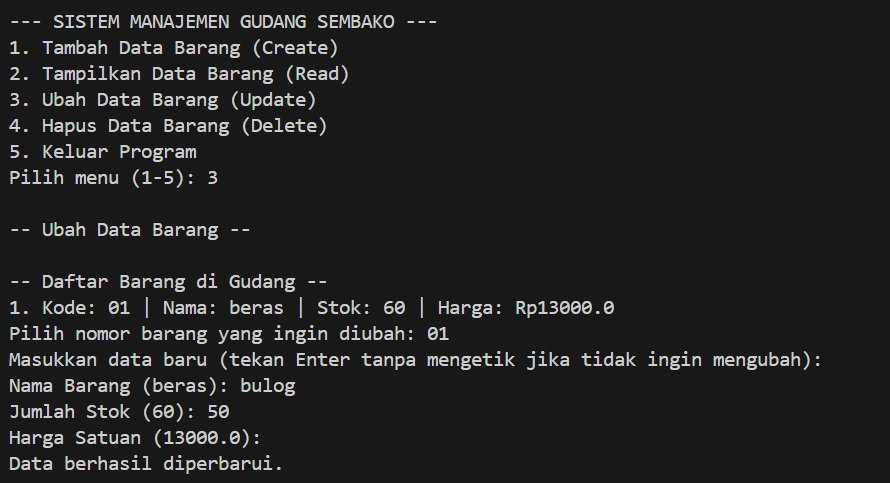
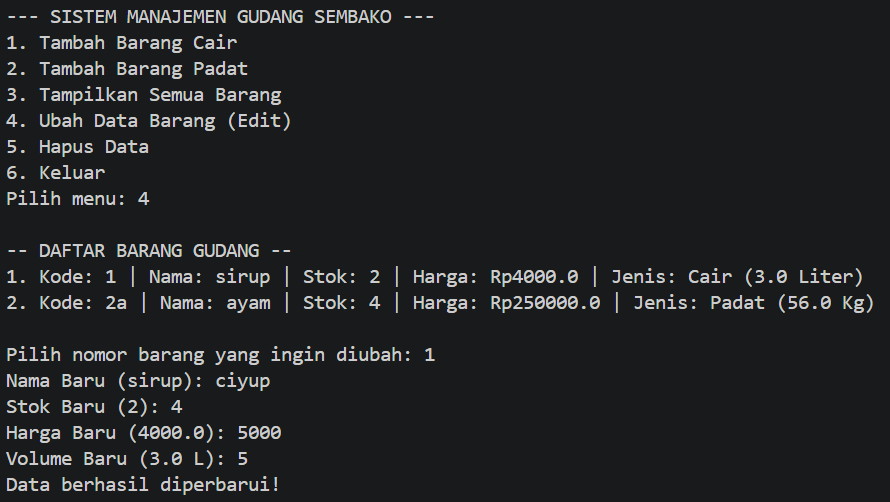
fiks

Changed region(s): [[0.0, 0.6832, 0.9101, 0.9938], [0.0, 0.0, 0.4854, 0.4348], [0.0, 0.4658, 1.0, 0.6522]]

diff --git a/POSTTEST3/src/App.java b/POSTTEST3/src/App.java
@@ -1,7 +1,6 @@
 import java.util.ArrayList;
 import java.util.Scanner;
 
-
 class Sembako {
     private String kodeBarang;
     private String namaBarang;
@@ -20,6 +19,7 @@ class Sembako {
                          " | Stok: " + jumlahStok + " | Harga: Rp" + hargaSatuan);
     }
 
+    // Getter & Setter
     public String getKodeBarang() { return kodeBarang; }
     public String getNamaBarang() { return namaBarang; }
     public int getJumlahStok() { return jumlahStok; }
@@ -38,6 +38,9 @@ class SembakoCair extends Sembako {
         this.volumeLiter = volume;
     }
 
+    public double getVolumeLiter() { return volumeLiter; }
+    public void setVolumeLiter(double volumeLiter) { this.volumeLiter = volumeLiter; }
+
     @Override
     public void tampilkanInfo() {
         super.tampilkanInfo();
@@ -45,7 +48,6 @@ class SembakoCair extends Sembako {
     }
 }
 
-// --- SUBCLASS 2 (Inheritance: Single Inheritance) ---
 class SembakoPadat extends Sembako {
     private double beratKg;
 
@@ -53,6 +55,9 @@ class SembakoPadat extends Sembako {
         super(kode, nama, stok, harga);
         this.beratKg = berat;
     }
+
+    public double getBeratKg() { return beratKg; }
+    public void setBeratKg(double beratKg) { this.beratKg = beratKg; }
 
     @Override
     public void tampilkanInfo() {
@@ -68,12 +73,13 @@ public class App {
     public static void main(String[] args) {
         boolean berjalan = true;
         while (berjalan) {
-            System.out.println("\n--- SISTEM MANAJEMEN GUDANG SEMBAKO (INHERITANCE) ---");
+            System.out.println("\n--- SISTEM MANAJEMEN GUDANG SEMBAKO ---");
             System.out.println("1. Tambah Barang Cair");
             System.out.println("2. Tambah Barang Padat");
             System.out.println("3. Tampilkan Semua Barang");
-            System.out.println("4. Hapus Data");
-            System.out.println("5. Keluar");
+            System.out.println("4. Ubah Data Barang (Edit)");
+            System.out.println("5. Hapus Data");
+            System.out.println("6. Keluar");
             System.out.print("Pilih menu: ");
             
             int pilihan = scanner.nextInt();
@@ -83,8 +89,9 @@ public class App {
                 case 1: tambahBarang(true); break;
                 case 2: tambahBarang(false); break;
                 case 3: tampilkanData(); break;
-                case 4: hapusData(); break;
-                case 5: 
+                case 4: ubahData(); break;
+                case 5: hapusData(); break;
+                case 6: 
                     berjalan = false;
                     System.out.println("Program Selesai.");
                     break;
@@ -111,21 +118,62 @@ public class App {
 
     static void tampilkanData() {
         System.out.println("\n-- DAFTAR BARANG GUDANG --");
-        if (daftarSembako.isEmpty()) System.out.println("Gudang Kosong.");
-        for (int i = 0; i < daftarSembako.size(); i++) {
-            System.out.print((i + 1) + ". ");
-            daftarSembako.get(i).tampilkanInfo(); // Polimorfisme bekerja di sini
+        if (daftarSembako.isEmpty()) {
+            System.out.println("Gudang Kosong.");
+        } else {
+            for (int i = 0; i < daftarSembako.size(); i++) {
+                System.out.print((i + 1) + ". ");
+                daftarSembako.get(i).tampilkanInfo();
+            }
+        }
+    }
+
+    static void ubahData() {
+        tampilkanData();
+        if (daftarSembako.isEmpty()) return;
+
+        System.out.print("\nPilih nomor barang yang ingin diubah: ");
+        int no = scanner.nextInt();
+        scanner.nextLine();
+
+        if (no > 0 && no <= daftarSembako.size()) {
+            Sembako barang = daftarSembako.get(no - 1);
+            
+            System.out.print("Nama Baru (" + barang.getNamaBarang() + "): ");
+            String namaBaru = scanner.nextLine();
+            if(!namaBaru.isEmpty()) barang.setNamaBarang(namaBaru);
+
+            System.out.print("Stok Baru (" + barang.getJumlahStok() + "): ");
+            barang.setJumlahStok(scanner.nextInt());
+
+            System.out.print("Harga Baru (" + barang.getHargaSatuan() + "): ");
+            barang.setHargaSatuan(scanner.nextDouble());
+            
+            // Logika spesifik menggunakan instanceof (Cek tipe Subclass)
+            if (barang instanceof SembakoCair) {
+                SembakoCair bc = (SembakoCair) barang;
+                System.out.print("Volume Baru (" + bc.getVolumeLiter() + " L): ");
+                bc.setVolumeLiter(scanner.nextDouble());
+            } else if (barang instanceof SembakoPadat) {
+                SembakoPadat bp = (SembakoPadat) barang;
+                System.out.print("Berat Baru (" + bp.getBeratKg() + " Kg): ");
+                bp.setBeratKg(scanner.nextDouble());
+            }
+
+            System.out.println("Data berhasil diperbarui!");
+        } else {
+            System.out.println("Nomor tidak valid.");
         }
     }
 
     static void hapusData() {
         tampilkanData();
         if (!daftarSembako.isEmpty()) {
-            System.out.print("Nomor yang dihapus: ");
+            System.out.print("\nNomor yang dihapus: ");
             int no = scanner.nextInt();
             if (no > 0 && no <= daftarSembako.size()) {
                 daftarSembako.remove(no - 1);
-                System.out.println("Terhapus.");
+                System.out.println("Data berhasil dihapus.");
             }
         }
     }

diff --git a/POSTTEST3/README.md b/POSTTEST3/README.md
@@ -1,18 +1,85 @@
-## Getting Started
+# Sistem Manajemen Gudang Sembako
 
-Welcome to the VS Code Java world. Here is a guideline to help you get started to write Java code in Visual Studio Code.
+Program aplikasi konsol berbasis Java untuk mengelola data stok barang sembako di dalam sebuah gudang. Program ini mengimplementasikan konsep Object-Oriented Programming (OOP) dan operasi dasar CRUD (Create, Read, Update, Delete) dengan penyimpanan data dinamis menggunakan `ArrayList`.
 
-## Folder Structure
+---
 
-The workspace contains two folders by default, where:
+## Fitur Program
 
-- `src`: the folder to maintain sources
-- `lib`: the folder to maintain dependencies
+Program memiliki menu interaktif yang berjalan secara terus-menerus hingga pengguna memilih untuk keluar. Fitur utama meliputi:
 
-Meanwhile, the compiled output files will be generated in the `bin` folder by default.
+- **Create:** Menambahkan data barang baru dengan dua jenis, yaitu barang cair (dengan atribut volume dalam liter) dan barang padat (dengan atribut berat dalam kilogram).
+- **Read:** Menampilkan daftar seluruh barang yang tersimpan beserta detailnya.
+- **Update:** Mengubah data barang yang sudah ada berdasarkan nomor urut, termasuk nama, stok, harga, serta atribut spesifik jenis barang.
+- **Delete:** Menghapus data barang dari daftar berdasarkan nomor urut.
 
-> If you want to customize the folder structure, open `.vscode/settings.json` and update the related settings there.
+---
 
-## Dependency Management
+## Screenshot Output Program
 
-The `JAVA PROJECTS` view allows you to manage your dependencies. More details can be found [here](https://github.com/microsoft/vscode-java-dependency#manage-dependencies).
+Berikut adalah tampilan antarmuka konsol untuk setiap fitur yang dijalankan.
+
+### Menu Utama
+![Output Menu Utama](assets/menuutama.png)
+
+### 1. Tambah Data (Create)
+![Output Tambah Data](assets/tambah.png)
+
+### 2. Tampilkan Data (Read)
+![Output Tampil Data](assets/tampilkan.png)
+
+### 3. Ubah Data (Update)
+![Output Ubah Data](assets/edit.png)
+
+### 4. Hapus Data (Delete)
+![Output Hapus Data](assets/hapus.png)
+
+---
+
+## Persyaratan Sistem
+
+Untuk menjalankan program ini, pastikan sistem Anda telah terinstal:
+
+- **Java Development Kit (JDK)** versi 8 atau yang lebih baru.
+
+---
+
+## Cara Menjalankan Program
+
+1. Simpan kode program ke dalam sebuah file bernama `App.java`.
+2. Buka terminal atau command prompt, lalu arahkan direktori ke lokasi file `App.java` disimpan.
+3. Kompilasi program dengan perintah berikut:
+   ```bash
+   javac App.java
+   ```
+4. Jalankan program yang telah dikompilasi:
+   ```bash
+   java App
+   ```
+
+---
+
+## Struktur Kode
+
+Program terdiri dari empat kelas yang berada dalam satu file `App.java`:
+
+| Kelas | Tipe | Deskripsi |
+|---|---|---|
+| `Sembako` | Superclass | Kelas induk yang merepresentasikan entitas barang dengan atribut `kodeBarang`, `namaBarang`, `jumlahStok`, dan `hargaSatuan`. Menerapkan enkapsulasi melalui getter dan setter. |
+| `SembakoCair` | Subclass | Mewarisi `Sembako` dan menambahkan atribut `volumeLiter`. Meng-override method `tampilkanInfo()`. |
+| `SembakoPadat` | Subclass | Mewarisi `Sembako` dan menambahkan atribut `beratKg`. Meng-override method `tampilkanInfo()`. |
+| `App` | Main Class | Kelas utama yang berisi method `main`, deklarasi `ArrayList` sebagai penyimpanan sementara, `Scanner` untuk input pengguna, serta seluruh logika menu dan operasi CRUD. |
+
+### Konsep OOP yang Diterapkan
+
+- **Encapsulation:** Atribut kelas `Sembako` bersifat `private` dan diakses melalui getter dan setter.
+- **Inheritance:** `SembakoCair` dan `SembakoPadat` mewarisi atribut dan method dari kelas `Sembako`.
+- **Polymorphism:** Method `tampilkanInfo()` di-override pada masing-masing subclass untuk menampilkan informasi spesifik sesuai jenisnya.
+- **Type Checking:** Operator `instanceof` digunakan pada method `ubahData()` untuk menentukan tipe subclass saat runtime dan mengakses atribut spesifiknya.
+
+---
+
+## Catatan Tambahan
+
+- Program menggunakan penyimpanan berbasis memori sementara. Semua data yang ditambahkan akan hilang ketika program ditutup.
+- Untuk kebutuhan penyimpanan permanen, program dapat dikembangkan dengan mengintegrasikan basis data seperti MySQL atau penyimpanan berbasis file (TXT/CSV).
